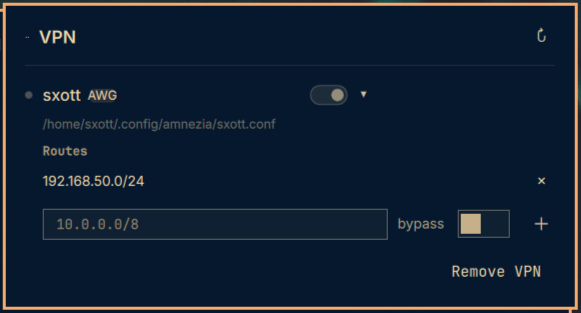
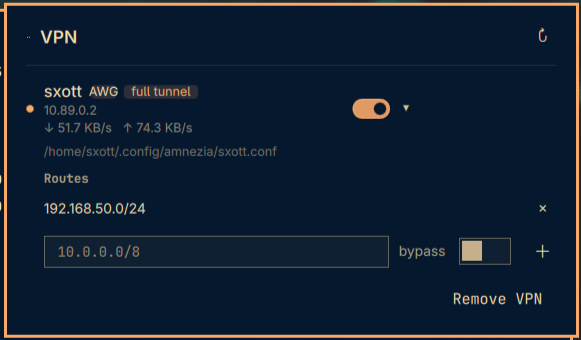
Preview: VPN up — full-tunnel badge, live rates, route manager

Changed region(s): [[0.0, 0.0, 1.0, 1.0], [0.5267, 0.2588, 0.7126, 0.3738], [0.062, 0.0863, 0.1549, 0.1438]]

diff --git a/README.md b/README.md
@@ -4,7 +4,7 @@ An Omarchy shell plugin: discovers WireGuard and AmneziaWG client configs,
 toggles each VPN up/down from the bar, and manages per-VPN extra routes
 (including LAN bypass routes).
 
-![The panel: VPN list with toggle, and the expanded route manager](preview.png)
+![The panel with an active VPN: full-tunnel badge, tunnel address, live traffic, and the route manager](preview.png)
 
 ## Install
 
